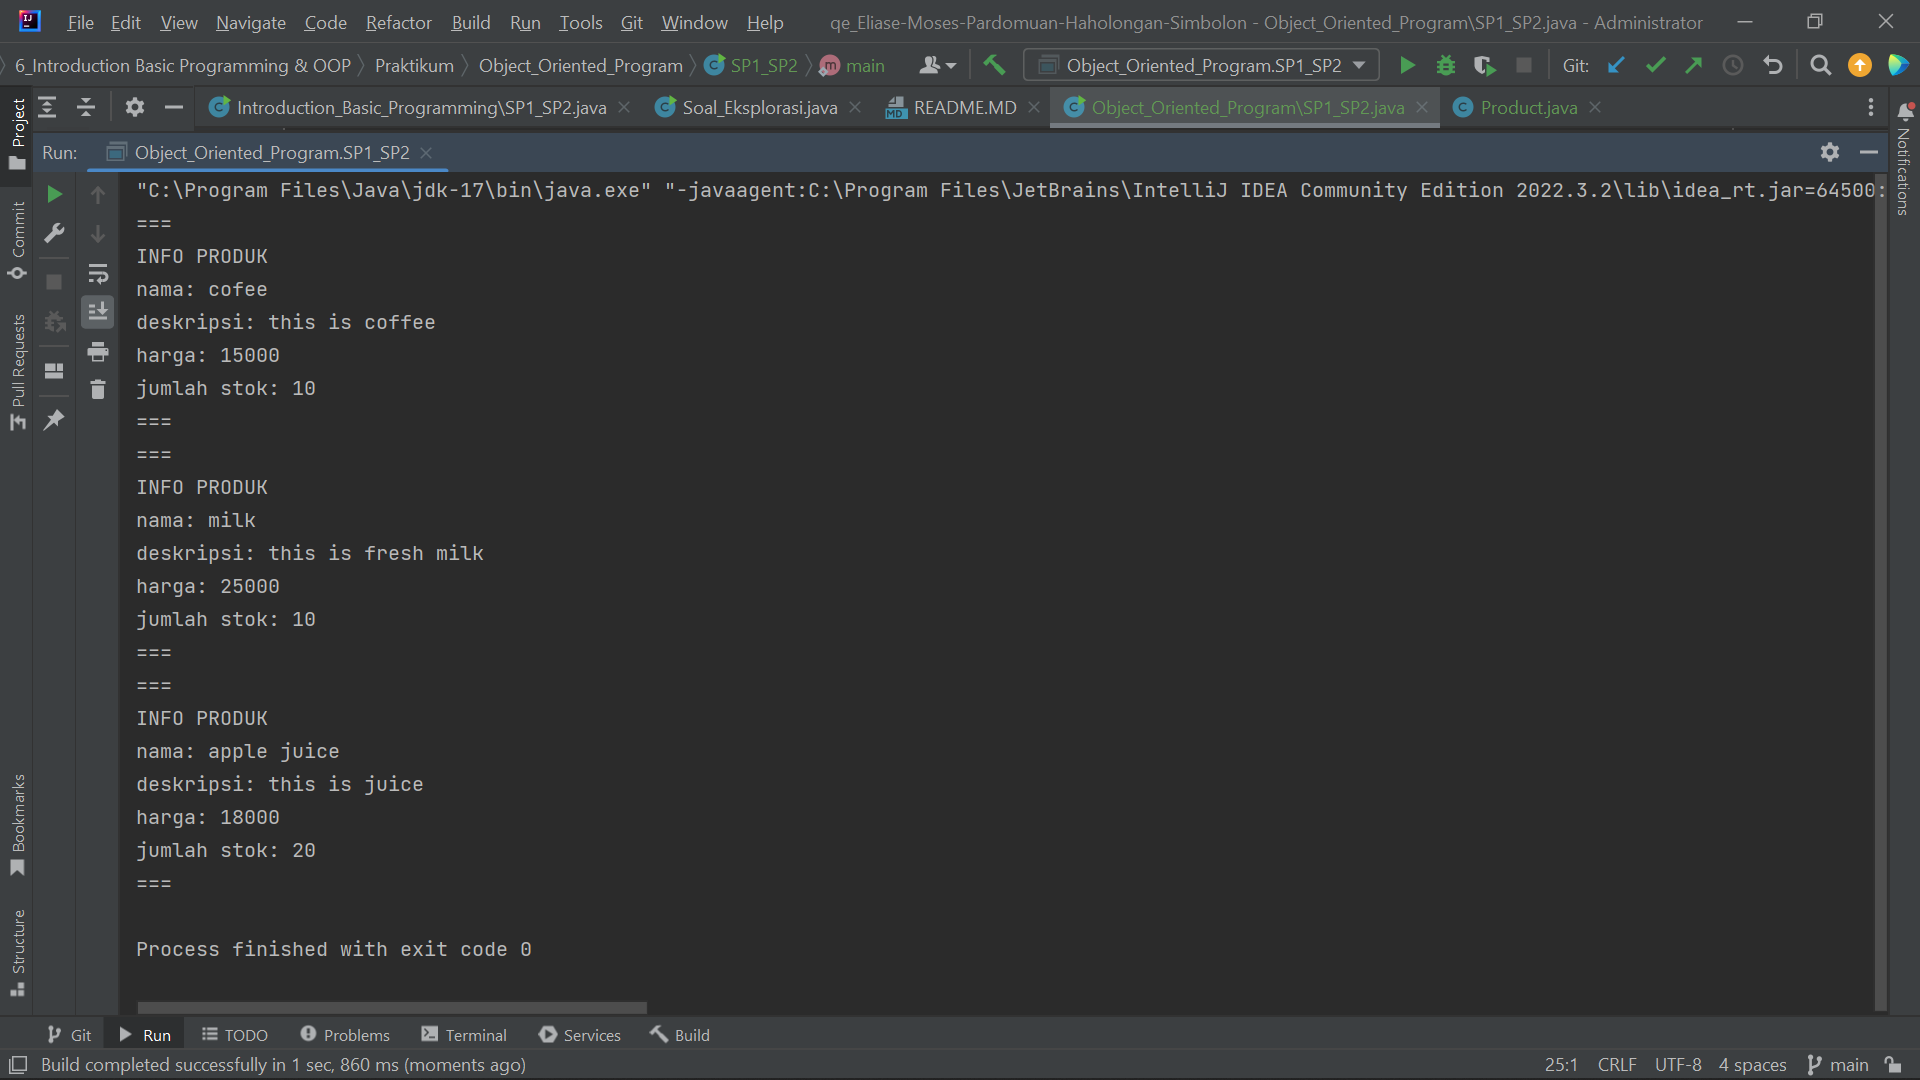
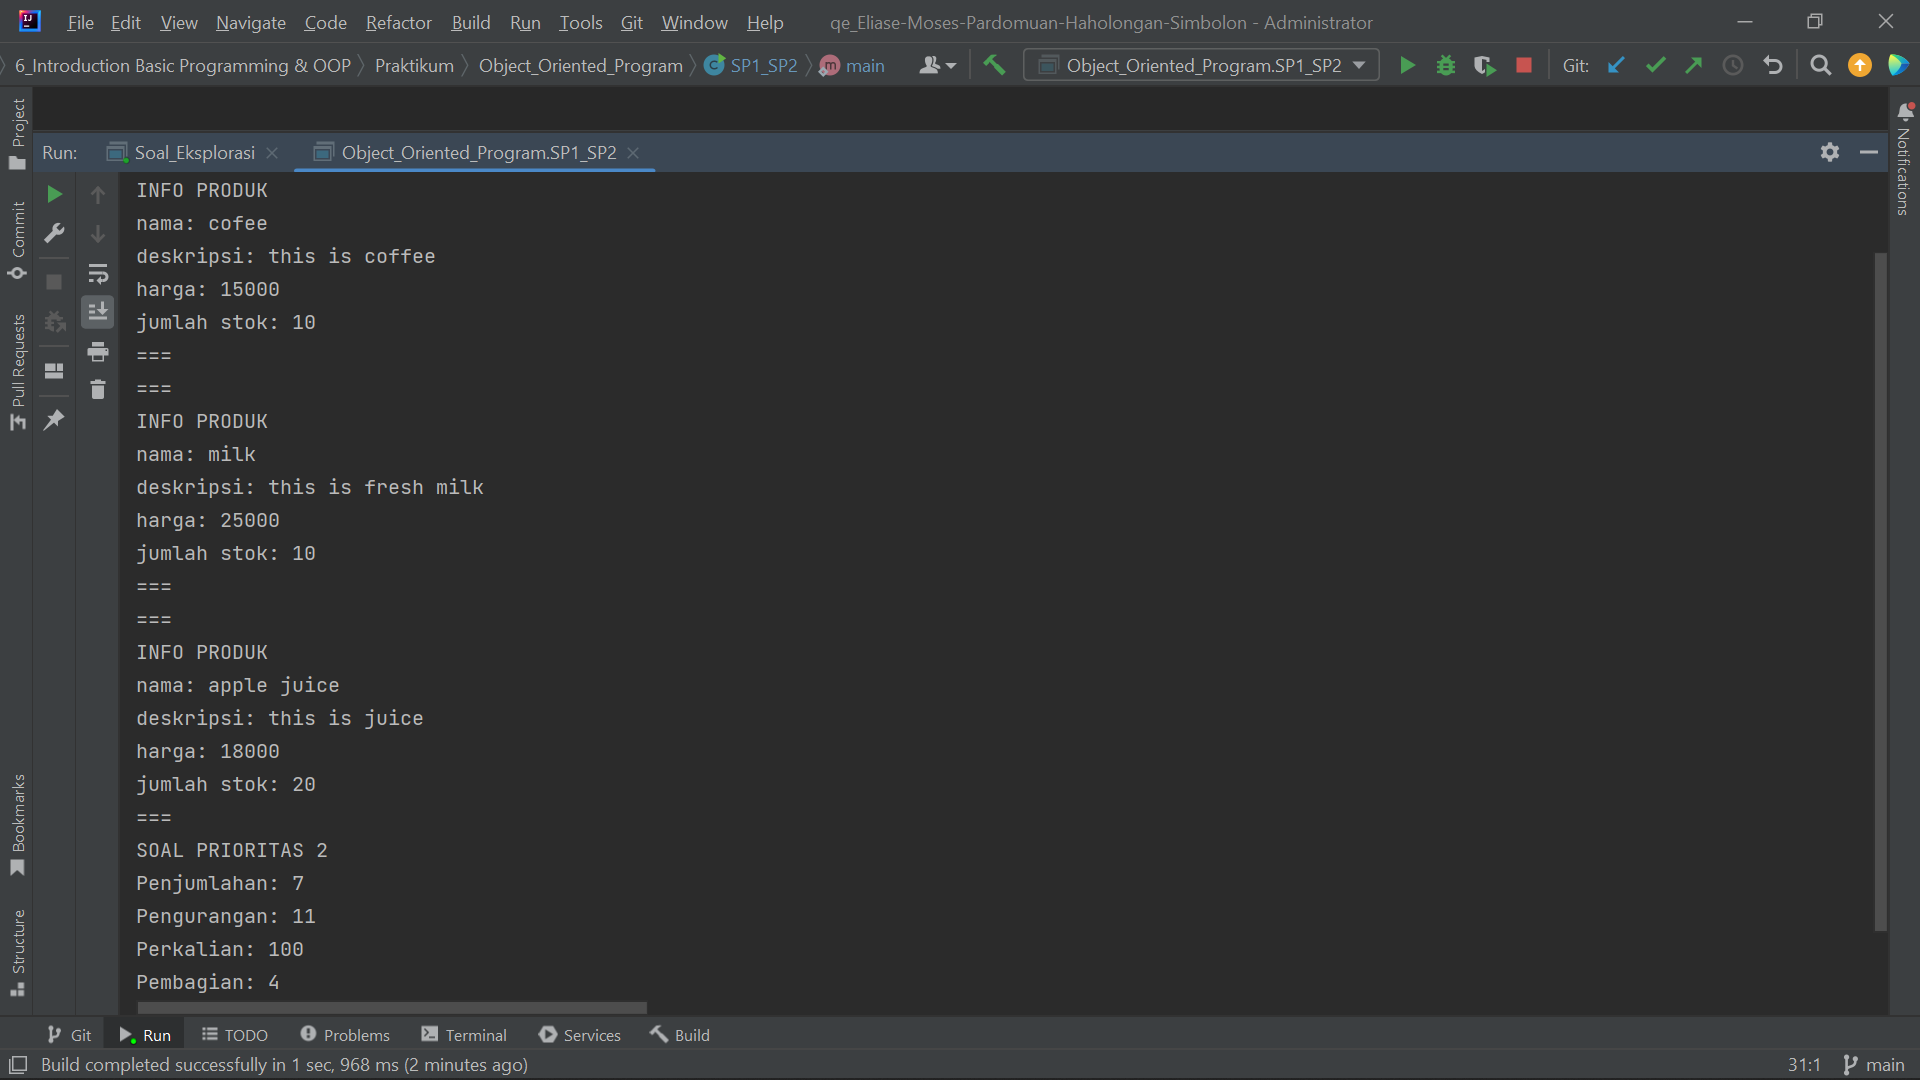
Section 6_Introduction Basic Programming & OOP

diff --git a/6_Introduction Basic Programming & OOP/Praktikum/Object_Oriented_Program/SP1_SP2.java b/6_Introduction Basic Programming & OOP/Praktikum/Object_Oriented_Program/SP1_SP2.java
@@ -5,7 +5,7 @@ import Object_Oriented_Program.Data.Product;
 
 public class SP1_SP2 {
     public static void main(String[] args) {
-
+        System.out.println("SOAL PRIORITAS 1");
         System.out.println("===");
         System.out.println("INFO PRODUK");
         Product product = new Product();
@@ -47,11 +47,11 @@ public class SP1_SP2 {
 
         // Calculator
         Calculator calc = new Calculator();
+        System.out.println("SOAL PRIORITAS 2");
         System.out.println("Penjumlahan: " + calc.add(3,4));
         System.out.println("Pengurangan: " + calc.substract(15,4));
         System.out.println("Perkalian: " + calc.multiply(10,10));
         System.out.println("Pembagian: " + calc.divide(12,3));
-
     }
 }
 
